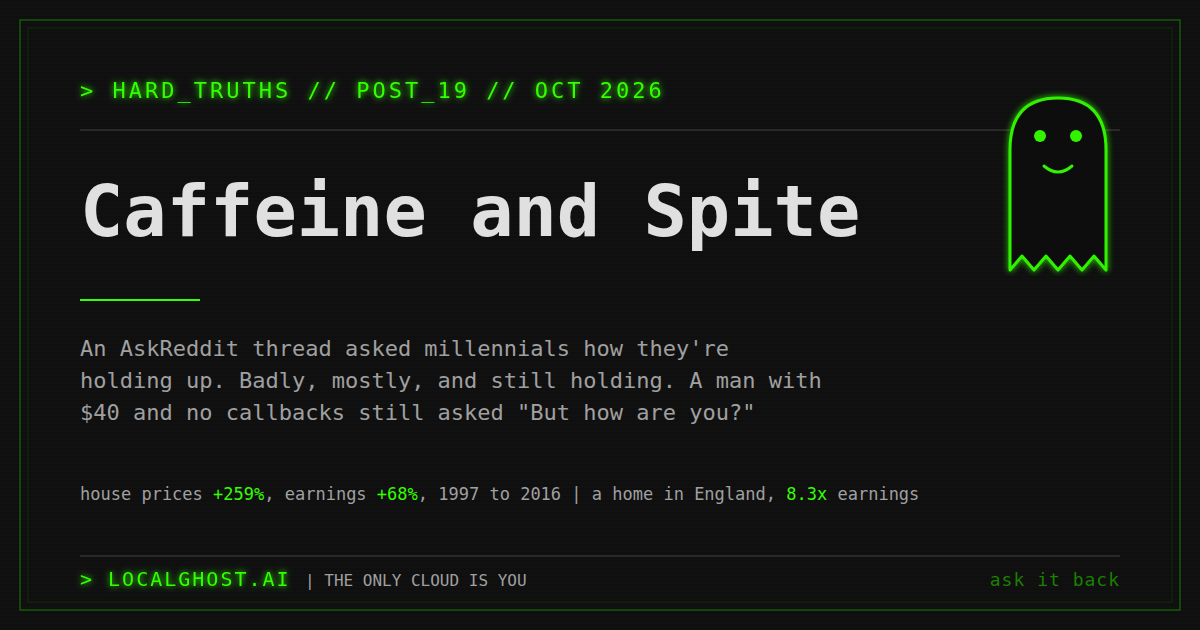
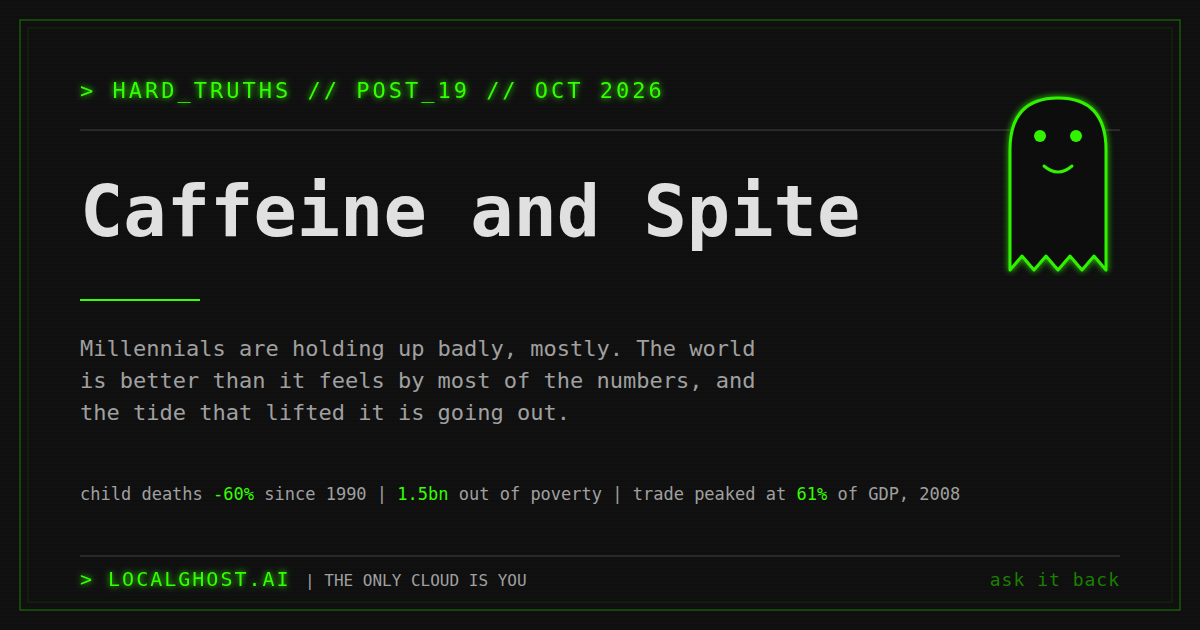
New blog post

Changed region(s): [[0.0617, 0.5429, 0.6783, 0.6635], [0.185, 0.754, 0.8017, 0.8143], [0.0617, 0.754, 0.1542, 0.8143]]

diff --git a/public/hard-truths/caffeine-and-spite.html b/public/hard-truths/caffeine-and-spite.html
@@ -4,10 +4,10 @@
     <meta charset="UTF-8">
     <meta name="viewport" content="width=device-width, initial-scale=1.0">
     <title>Caffeine and Spite | LocalGhost.ai</title>
-    <meta name="description" content="An AskReddit thread asked millennials how they're holding up. Badly, mostly, and still holding, and the most hopeful line came from a man with $40 in the bank.">
+    <meta name="description" content="Millennials on AskReddit are holding up badly, mostly. By most numbers the world is better than when we were born, and the tide that lifted it is going out.">
     <meta name="author" content="Vlad Cealicu">
     <meta name="robots" content="index, follow, max-snippet:-1, max-image-preview:large, max-video-preview:-1">
-    <meta name="keywords" content="millennials, AskReddit, cost of living, housing affordability, ONS, house price to earnings ratio, K-shaped economy, burnout, loneliness, layoffs, AI and jobs, starting over, community, Samaritans, 988, LocalGhost, Hard Truths">
+    <meta name="keywords" content="millennials, AskReddit, cost of living, housing affordability, ONS, K-shaped economy, elephant curve, extreme poverty, child mortality, life expectancy, globalisation, deglobalisation, tariffs, local economy, decentralisation, burnout, loneliness, AI and jobs, community, Samaritans, 988, LocalGhost, Hard Truths">
     <meta name="category" content="Society, Money, Work">
     <meta name="language" content="en-GB">
     <link rel="canonical" href="https://www.localghost.ai/hard-truths/caffeine-and-spite">
@@ -15,7 +15,7 @@
     <meta property="og:type" content="article">
     <meta property="og:url" content="https://www.localghost.ai/hard-truths/caffeine-and-spite">
     <meta property="og:title" content="Caffeine and Spite | LocalGhost Hard Truths">
-    <meta property="og:description" content="A couple of hundred answers to an AskReddit thread asking millennials how they're holding up, read between midnight and one in the morning. Tired, priced out, losing friends, and still asking each other how they are.">
+    <meta property="og:description" content="A couple of hundred answers to an AskReddit thread asking millennials how they're holding up, the numbers that say the world is better than it feels, and why the turn from global to local will hurt before it pays.">
     <meta property="og:image" content="https://www.localghost.ai/images/og-caffeine-and-spite.png">
     <meta property="og:image:width" content="1200">
     <meta property="og:image:height" content="630">
@@ -31,13 +31,14 @@
     <meta property="article:tag" content="burnout">
     <meta property="article:tag" content="community">
     <meta property="article:tag" content="AI and jobs">
+    <meta property="article:tag" content="globalisation">
     <meta property="article:tag" content="LocalGhost">
-    <meta property="article:reading_time" content="10">
+    <meta property="article:reading_time" content="13">
     <meta name="twitter:card" content="summary_large_image">
     <meta name="twitter:site" content="@localghostai">
     <meta name="twitter:creator" content="@vladcealicu">
     <meta name="twitter:title" content="Caffeine and Spite">
-    <meta name="twitter:description" content="An AskReddit thread asked millennials how they're holding up. Badly, mostly, and still holding, and the most hopeful line came from a man with $40 in the bank.">
+    <meta name="twitter:description" content="Millennials on AskReddit are holding up badly, mostly. By most numbers the world is better than when we were born, and the tide that lifted it is going out.">
     <meta name="twitter:image" content="https://www.localghost.ai/images/og-caffeine-and-spite.png">
     <meta name="twitter:image:alt" content="Caffeine and Spite, LocalGhost Hard Truths">
     <meta name="fediverse:creator" content="@vladcealicu">
@@ -51,7 +52,7 @@
         "@context": "https://schema.org",
         "@type": "BlogPosting",
         "headline": "Caffeine and Spite",
-        "description": "A couple of hundred answers to an AskReddit thread asking millennials how they're holding up, read between midnight and one in the morning. Tired, priced out, losing friends, and still asking each other how they are.",
+        "description": "A couple of hundred answers to an AskReddit thread asking millennials how they're holding up, the numbers that say the world is better than it feels, and why the turn from global to local will hurt before it pays.",
         "author": {
             "@type": "Person",
             "@id": "https://www.localghost.ai/about#vlad-cealicu",
@@ -83,9 +84,9 @@
             "width": 1200,
             "height": 630
         },
-        "keywords": "millennials, AskReddit, housing affordability, ONS, cost of living, burnout, community, AI and jobs, LocalGhost",
+        "keywords": "millennials, AskReddit, housing affordability, elephant curve, extreme poverty, globalisation, deglobalisation, local economy, community, AI and jobs, LocalGhost",
         "articleSection": "Hard Truths",
-        "wordCount": 2238,
+        "wordCount": 3006,
         "inLanguage": "en-GB",
         "isPartOf": {
             "@id": "https://www.localghost.ai/hard-truths#blog"
@@ -190,7 +191,7 @@
         </p>
 
         <p>
-            I read a couple of hundred of the answers between midnight and one in the morning on 9 October. I'm writing this because the most hopeful sentence in the thread was sitting at the end of one of the worst answers in it.
+            I read a couple of hundred of the answers between midnight and one in the morning on 9 October. I'm writing this because the most hopeful sentence in the thread was sitting at the end of one of the worst answers in it, and because when I went looking for the numbers behind the thread, most of them were better than the thread felt.
         </p>
 
         <h2 class="section-header">&gt; 1. What the answers sound like</h2>
@@ -204,11 +205,11 @@
         </p>
 
         <p>
-            Both sides of that argument have a point, and that's the trap. You can be doing well by every number on a payslip and still feel the floor moving under you.
+            I think both of them have a point. You can earn more than you ever have and still feel like you're falling behind.
         </p>
 
         <p>
-            The other threads running through it were the ones nobody warns you about. Parents getting old, like the dad who finally retired this year and then spent five days in hospital after a heart attack. Friendships thinning out until you're texting two or three people once a week. Layoffs after ten years, one of them landing just before a paid sabbatical was due.
+            The rest of the page was about parents, friends and work. Parents getting old, like the dad who finally retired this year and then spent five days in hospital after a heart attack. Friendships thinning out until you're texting two or three people once a week. Layoffs after ten years, one of them landing just before a paid sabbatical was due.
         </p>
 
         <p>
@@ -260,14 +261,54 @@
         </p>
 
         <p>
-            The same thread had people retiring at 40, a couple on multiple six figures who locked in 3% during Covid, and a man on $400k with compounding savings. One of the comfortable ones called it the K-shaped economy <a href="#ref-10" class="cite">[10]</a> and said he knows how lucky he is. Someone asked another how much of his success he'd put down to luck. Hard work is real and so is timing, and the thread reads like the K drawn in comments.
+            The same thread had people retiring at 40, a couple on multiple six figures who locked in 3% during Covid, and a man on $400k with compounding savings. One of the comfortable ones called it the K-shaped economy <a href="#ref-10" class="cite">[10]</a> and said he knows how lucky he is. Someone asked another how much of his success he'd put down to luck. Hard work is real, and so is timing.
         </p>
 
         <div class="signal">
-            <p>If you've felt like you only ever turn up for the crash, that feeling has numbers behind it. It isn't a character flaw.</p>
+            <p>If you've felt like you only ever turn up in time for the crash, the numbers above say you're not imagining it.</p>
         </div>
 
-        <h2 class="section-header">&gt; 4. The part about AI</h2>
+        <h2 class="section-header">&gt; 4. Is it better, though?</h2>
+
+        <p>
+            The thread reads like the end of something, so I went and looked at how the world we grew up in has changed. Most of the big numbers are better than when I was born, and not by a little.
+        </p>
+
+        <p>
+            In 1990, about 93 of every 1,000 children born anywhere in the world died before they turned five. In 2024 it was 37, a drop of 60% <a href="#ref-11" class="cite">[11]</a>. A child born in 2024 can expect to live to 73, more than eight years longer than one born in 1995 <a href="#ref-12" class="cite">[12]</a>. Between 1990 and 2022 about 1.5 billion people got out of extreme poverty <a href="#ref-13" class="cite">[13]</a>, and the share of the world living on less than $3 a day went from one person in every two or three to about one in ten <a href="#ref-14" class="cite">[14]</a>.
+        </p>
+
+        <p>
+            So is life objectively better? Across the world, yes, and I don't think it's close. Where most of the people in that thread live it's more mixed, better on most of what you'd measure with a clipboard and worse on the things they were answering about, the price of a house, how long a job lasts and how many friends you still see.
+        </p>
+
+        <p>
+            There's a chart that shows why. In 2013 Christoph Lakner and Branko Milanovic plotted how much incomes grew between 1988 and 2008 for every slice of the world's population, poorest to richest <a href="#ref-15" class="cite">[15]</a>. The global middle, most of it in China and the rest of Asia, saw incomes rise 70 to 80%. The global top 1% got about 60%. The working and middle classes of the rich countries, which is where most of that thread grew up, got close to nothing. It's called the elephant curve because of its shape.
+        </p>
+
+        <p>
+            The feeling shows up in the data too. In the 2024 World Happiness Report the United States fell out of the top 20 for the first time, partly because people under 30 rated their lives lower than before, and in both the US and Canada the over-60s ranked at least 50 places higher than the under-30s <a href="#ref-16" class="cite">[16]</a>. Some of the good numbers have stopped moving as well. Life expectancy dipped from 72.6 to 70.9 during the pandemic before it came back <a href="#ref-12" class="cite">[12]</a>, and the researchers at Our World in Data write that the fall in extreme poverty of the past decades has ended <a href="#ref-14" class="cite">[14]</a>.
+        </p>
+
+        <h2 class="section-header">&gt; 5. The tide going out</h2>
+
+        <p>
+            I think a lot of that progress rode on one thing. From the fall of the Berlin Wall to 2008 the world traded more with itself every year, and trade went from about a quarter of the world's output in 1970 to about 61% in 2008 <a href="#ref-17" class="cite">[17]</a>. I was three when it started for Romania. People call it the tide that lifted all boats. It lifted most of them, the ones in the middle of the world furthest of all, which is how a billion and a half people got out of extreme poverty, and it did very little for the families most of that thread grew up in.
+        </p>
+
+        <p>
+            Since 2008 the tide has stopped coming in, and lately it's started going out. Trade stopped growing faster than everything else, some supply chains moved closer to home after Covid, and tariffs came back. In April 2026 the average effective tariff on goods coming into the US was 11.8%, the highest since the early 1940s apart from 2025 itself <a href="#ref-18" class="cite">[18]</a>.
+        </p>
+
+        <p>
+            It's going to hurt, and the IMF reckoned in 2023 that splitting the world economy into blocs could cost up to 7% of global output in the long run <a href="#ref-19" class="cite">[19]</a>. Things get more expensive when the cheapest place to make them is shut out, and I expect some of the jobs that come home to pay less than people are hoping.
+        </p>
+
+        <p>
+            I also think it's where the next good decades come from. Thirty years of everything flowing to the cheapest place left most of us renting our lives from a handful of companies a long way away, our photos, our music, our money and now our AI. A more local and more decentralised economy means more of what we use made and owned closer to where we live, and more of the value staying there. I wrote about the cost of tying everything to someone else's servers in <a href="/hard-truths/integration-tax">The Integration Tax</a>, and this is the same argument at the size of a country. It'll be slower and it'll cost more, and I still think it's worth it. It's also the first time in my life the world has been moving the same way as the thing I'm building.
+        </p>
+
+        <h2 class="section-header">&gt; 6. The part about AI</h2>
 
         <p>
             One of the most upvoted answers in the whole thread was seven words long, "Glad to have grown up before AI", on 7,500 upvotes. Further down, one person said their company has them training their own job into an AI platform while each round of layoffs gets bigger. A man in the middle of a breakup said he'd nearly been fooled by an AI political video that week.
@@ -281,10 +322,10 @@
             It doesn't fix the job market. Nobody in the thread had an answer for that, and I don't have one either.
         </p>
 
-        <h2 class="section-header">&gt; 5. Sticking around</h2>
+        <h2 class="section-header">&gt; 7. Sticking around</h2>
 
         <p>
-            This is the hardest part of the thread, and I'm not going to tidy it up.
+            This was the hardest part of the thread to read.
         </p>
 
         <p>
@@ -292,21 +333,21 @@
         </p>
 
         <p>
-            One reply pushed back hard. He'd been an admin on six figures, got laid off, and is homeless, with a roof only because a friend of a friend took pity on him. His point was that "stick around" costs nothing to type when every call for help ends in another form, another three-hour phone queue and a 12-week waiting list. He's right about the forms. A kind sentence on Reddit doesn't fix a benefits system.
+            One reply pushed back hard. He'd been an admin on six figures, got laid off, and is homeless, with a roof only because a friend of a friend took pity on him. His point was that "stick around" costs nothing to type when every call for help ends in another form, another three-hour phone queue and a 12-week waiting list. He's right about the forms.
         </p>
 
         <p>
-            The reply with 853 upvotes came from someone who didn't want to stay in January, and said it was strangers on Reddit who got them through. Both of those things are true at the same time.
+            The reply with 853 upvotes came from someone who didn't want to stay in January, and said it was strangers on Reddit who got them through. I don't think either of them is wrong.
         </p>
 
         <p>
-            If you're the one thinking about not staying, please tell one person tonight. In the UK, Samaritans answer 24 hours a day on 116 123 <a href="#ref-11" class="cite">[11]</a>, and in the US you can call or text 988 <a href="#ref-12" class="cite">[12]</a>. You don't need to be in crisis to call.
+            If you're the one thinking about not staying, please tell one person tonight. In the UK, Samaritans answer 24 hours a day on 116 123 <a href="#ref-20" class="cite">[20]</a>, and in the US you can call or text 988 <a href="#ref-21" class="cite">[21]</a>. You don't need to be in crisis to call.
         </p>
 
-        <h2 class="section-header">&gt; 6. What's holding</h2>
+        <h2 class="section-header">&gt; 8. What's holding</h2>
 
         <p>
-            The same thread that was full of bad news was also full of people still standing. Five things kept showing up.
+            The same thread that was full of bad news was also full of people still standing, and a lot of what was holding them up was small and close to home. Five things kept showing up.
         </p>
 
         <p>
@@ -314,11 +355,11 @@
         </p>
 
         <p>
-            The good life is smaller and more specific than the one we were sold. The happiest answers were made of small, exact things. A lawn ripped out and replaced with native plants and a garden that did well, scored 7 out of 10. A petroleum engineer renovating his house with his wife, who ends most days with the two of them in the bath, chatting. A homebody who is technically poor and weirdly fine with it. A new dad since April. Someone who watched a bear eat crabapples in British Columbia and enjoyed it. And one who is mostly broke but frolics on the regular, and says they can't take the frolic away.
+            The happiest answers were about small, specific things. A lawn ripped out and replaced with native plants and a garden that did well, scored 7 out of 10. A petroleum engineer renovating his house with his wife, who ends most days with the two of them in the bath, chatting. A homebody who is technically poor and weirdly fine with it. A new dad since April. Someone who watched a bear eat crabapples in British Columbia and enjoyed it. And one who is mostly broke but frolics on the regular, and says they can't take the frolic away.
         </p>
 
         <p>
-            We say the quiet parts out loud. A man with eleven years in his industry had never needed a mental health break until this year. Another is holding his marriage, job and parents together on the outside, and says it's rot all the way through on the inside. One commenter was writing from a burnout clinic. Most people our parents' age didn't say sentences like that to strangers, and plenty of them paid for keeping quiet. Saying it is the first step of fixing it.
+            We say the quiet parts out loud. A man with eleven years in his industry had never needed a mental health break until this year. Another is holding his marriage, job and parents together on the outside, and says it's rot all the way through on the inside. One commenter was writing from a burnout clinic. Most people our parents' age didn't say sentences like that to strangers, and plenty of them paid for keeping quiet.
         </p>
 
         <p>
@@ -326,10 +367,10 @@
         </p>
 
         <p>
-            We have more perspective than we get credit for. A 41-year-old whose grandfather lived through the Depression and the Second World War pointed out that he has never had to fight in a war or survive the Spanish flu. Someone posted C.S. Lewis on living in the atomic age, where he argues that if the bomb comes it should find us doing ordinary human things, working, reading, bathing the children, having a pint with friends <a href="#ref-13" class="cite">[13]</a>. Another simply wrote that we've been through worse.
+            We have more perspective than we get credit for. A 41-year-old whose grandfather lived through the Depression and the Second World War pointed out that he has never had to fight in a war or survive the Spanish flu. Someone posted C.S. Lewis on living in the atomic age, where he argues that if the bomb comes it should find us doing ordinary human things, working, reading, bathing the children, having a pint with friends <a href="#ref-22" class="cite">[22]</a>. Another simply wrote that we've been through worse, and on the numbers in section 4 they're right.
         </p>
 
-        <h2 class="section-header">&gt; 7. Four small things</h2>
+        <h2 class="section-header">&gt; 9. Four small things</h2>
 
         <p>
             None of these is a life hack, and none of them fixes housing.
@@ -343,7 +384,7 @@
         </ol>
 
         <div class="final-words">
-            I don't know if the boom is coming, and I don't think anyone selling you one does either. What I do know is that a thread of thousands of tired strangers at one in the morning was full of people who'd lost jobs, parents, friends and savings, and still asked each other how they were. If you want to tell me how you're holding up, I'm <a href="https://x.com/localghostai" target="_blank" rel="noopener">@localghostai</a> on X. I'll read it.
+            I don't know if the boom is coming, and I don't think anyone selling you one does either. The world those tired strangers live in is better than it feels, at least by the numbers that count lives, and the turn towards local is going to cost us before it pays. Whether it pays the people in that thread, or only their kids, is the part I'm not sure about yet. If you want to tell me how you're holding up, I'm <a href="https://x.com/localghostai" target="_blank" rel="noopener">@localghostai</a> on X. I'll read it.
             <span class="small">[ localghost.ai // hard-truths ]</span>
         </div>
 
@@ -390,15 +431,51 @@
         </p>
 
         <p class="references" id="ref-11">
-            <strong>[11]</strong> Samaritans, the UK and Ireland helpline, free on 116 123 at any hour, or by email and letter for anyone who would rather write. Source for the UK number. <a href="https://www.samaritans.org" target="_blank" rel="noopener">samaritans.org</a>.
+            <strong>[11]</strong> UNICEF and the UN Inter-agency Group for Child Mortality Estimation, under-five mortality, updated March 2026. The global rate fell from 93.5 deaths per 1,000 live births in 1990 to 37.4 in 2024, a decline of 60%, and 4.9 million children still died before their fifth birthday in 2024. Source for the 93 and the 37. <a href="https://data.unicef.org/topic/child-survival/under-five-mortality/" target="_blank" rel="noopener">data.unicef.org</a>.
         </p>
 
         <p class="references" id="ref-12">
-            <strong>[12]</strong> 988 Suicide and Crisis Lifeline, the US line, by call or text to 988 or by chat online. Source for the US number. <a href="https://988lifeline.org" target="_blank" rel="noopener">988lifeline.org</a>.
+            <strong>[12]</strong> United Nations, World Population Prospects 2024, summary of results, 11 July 2024. Life expectancy at birth reached 73.3 years in 2024, 8.4 years more than in 1995, after falling from 72.6 in 2019 to 70.9 during the pandemic. Source for the 73, the eight years and the dip. <a href="https://population.un.org/wpp/assets/Files/WPP2024_Summary-of-Results.pdf" target="_blank" rel="noopener">population.un.org</a>.
         </p>
 
         <p class="references" id="ref-13">
-            <strong>[13]</strong> C.S. Lewis, "On Living in an Atomic Age", 1948, collected in Present Concerns in 1986. The passage asks that the bomb, if it comes, find us "doing sensible and human things", among them bathing the children and chatting to friends over a pint and a game of darts. Source for the passage the commenter posted. Brad Feld quoted it at length in March 2020 at <a href="https://feld.com/archives/2020/03/wise-words-from-c-s-lewis-in-1948/" target="_blank" rel="noopener">feld.com</a>.
+            <strong>[13]</strong> World Bank, June 2025 update to the global poverty lines, 5 June 2025. The extreme poverty line moved to $3.00 a day, about 838 million people lived under it in 2022, and an estimated 1.5 billion people escaped extreme poverty between 1990 and 2022. Source for the billion and a half. <a href="https://www.worldbank.org/en/news/factsheet/2025/06/05/june-2025-update-to-global-poverty-lines" target="_blank" rel="noopener">worldbank.org</a>.
+        </p>
+
+        <p class="references" id="ref-14">
+            <strong>[14]</strong> Joe Hasell, Bertha Rohenkohl and Pablo Arriagada, $3 a day, a new poverty line has shifted the World Bank's data on extreme poverty, Our World in Data, 11 August 2025. Extreme poverty went from one in every two or three people to one in ten, 817 million people were under the line in 2024, and the authors write that the progress of the past decades has ended. Source for the one in ten and for the stall. <a href="https://ourworldindata.org/new-international-poverty-line-3-dollars-per-day" target="_blank" rel="noopener">ourworldindata.org</a>.
+        </p>
+
+        <p class="references" id="ref-15">
+            <strong>[15]</strong> Christoph Lakner and Branko Milanovic, Global Income Distribution, From the Fall of the Berlin Wall to the Great Recession, World Bank, 2013. The chart of income growth by global percentile between 1988 and 2008 that became known as the elephant curve, with the global middle up 70 to 80%, the global top 1% up about 60%, and the working and middle classes of the rich countries close to flat. Source for those three numbers. Wikipedia keeps the chart and its later revisions at <a href="https://en.wikipedia.org/wiki/The_Elephant_Curve" target="_blank" rel="noopener">en.wikipedia.org/wiki/The_Elephant_Curve</a>.
+        </p>
+
+        <p class="references" id="ref-16">
+            <strong>[16]</strong> World Happiness Report 2024, built on the Gallup World Poll, March 2024. The United States dropped out of the top 20 for the first time in the report's twelve years, driven in part by how Americans under 30 rate their lives, and in the US and Canada the over-60s ranked at least 50 places higher than the under-30s. Source for both. CBS News covered it on 20 March 2024 at <a href="https://www.cbsnews.com/news/happiest-countries-world-list-2024-united-states-gallup/" target="_blank" rel="noopener">cbsnews.com</a>.
+        </p>
+
+        <p class="references" id="ref-17">
+            <strong>[17]</strong> Federal Reserve Bank of St. Louis, Annual Report 2022, The Shifting Tides of Global Trade, from World Bank data. World trade rose from about 25% of world GDP in 1970 to a peak of about 61% in 2008, a level it hadn't passed again when the report was written. Source for the 25%, the 61% and the flattening since. <a href="https://www.stlouisfed.org/annual-report/2022/shifting-tides-global-trade" target="_blank" rel="noopener">stlouisfed.org</a>.
+        </p>
+
+        <p class="references" id="ref-18">
+            <strong>[18]</strong> The Budget Lab at Yale, State of U.S. Tariffs, 8 April 2026. The average effective tariff rate on US imports, before importers switch suppliers, stood at 11.8%, the highest since the early 1940s apart from 2025. Source for the 11.8%. <a href="https://budgetlab.yale.edu/research/state-us-tariffs-april-8-2026" target="_blank" rel="noopener">budgetlab.yale.edu</a>.
+        </p>
+
+        <p class="references" id="ref-19">
+            <strong>[19]</strong> Shekhar Aiyar and colleagues, Geo-Economic Fragmentation and the Future of Multilateralism, IMF Staff Discussion Note, January 2023. The long-run cost of trade fragmentation runs from 0.2% of global output in a mild scenario to almost 7% in a severe one, and higher again if technology splits as well. Source for the 7%. The note is at <a href="https://www.elibrary.imf.org/view/journals/006/2023/001/article-A001-en.xml" target="_blank" rel="noopener">elibrary.imf.org</a>, and CNBC covered it on 16 January 2023 at <a href="https://www.cnbc.com/2023/01/16/imf-says-fragmentation-could-cost-global-economy-up-to-7percent-of-gdp.html" target="_blank" rel="noopener">cnbc.com</a>.
+        </p>
+
+        <p class="references" id="ref-20">
+            <strong>[20]</strong> Samaritans, the UK and Ireland helpline, free on 116 123 at any hour, or by email and letter for anyone who would rather write. Source for the UK number. <a href="https://www.samaritans.org" target="_blank" rel="noopener">samaritans.org</a>.
+        </p>
+
+        <p class="references" id="ref-21">
+            <strong>[21]</strong> 988 Suicide and Crisis Lifeline, the US line, by call or text to 988 or by chat online. Source for the US number. <a href="https://988lifeline.org" target="_blank" rel="noopener">988lifeline.org</a>.
+        </p>
+
+        <p class="references" id="ref-22">
+            <strong>[22]</strong> C.S. Lewis, "On Living in an Atomic Age", 1948, collected in Present Concerns in 1986. The passage asks that the bomb, if it comes, find us "doing sensible and human things", among them bathing the children and chatting to friends over a pint and a game of darts. Source for the passage the commenter posted. Brad Feld quoted it at length in March 2020 at <a href="https://feld.com/archives/2020/03/wise-words-from-c-s-lewis-in-1948/" target="_blank" rel="noopener">feld.com</a>.
         </p>
 
     </div>

diff --git a/public/hard-truths.html b/public/hard-truths.html
@@ -271,7 +271,7 @@
                 <span class="post-tag">SIGNAL</span>
             </div>
             <h2 class="post-title">Caffeine and Spite</h2>
-            <p class="post-excerpt">An AskReddit thread asked millennials how they're holding up, and I read a couple of hundred answers between midnight and one in the morning. Broke on the best salaries we've had, priced out of houses our parents bought on three and a half years of earnings, losing jobs, parents and friends, and running on caffeine and spite. What the ONS numbers say, the part about AI, what's holding, and why the most hopeful line in the thread came from a man with $40 in the bank.</p>
+            <p class="post-excerpt">An AskReddit thread asked millennials how they're holding up, and I read a couple of hundred answers between midnight and one in the morning. Broke on the best salaries we've had, priced out of houses our parents bought on three and a half years of earnings, and running on caffeine and spite. Then the numbers, which say the world is better than when we were born, the elephant curve that says why it doesn't feel like it, and the tide of globalisation going out, which will hurt before it pays. And why the most hopeful line in the thread came from a man with $40 in the bank.</p>
             <span class="post-arrow">[ READ → ]</span>
         </a>
 
